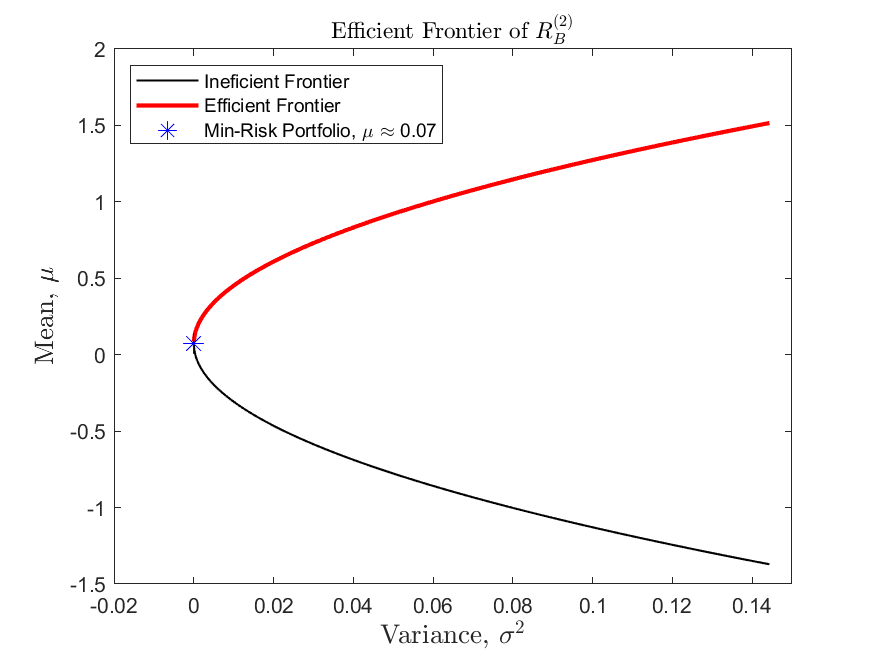
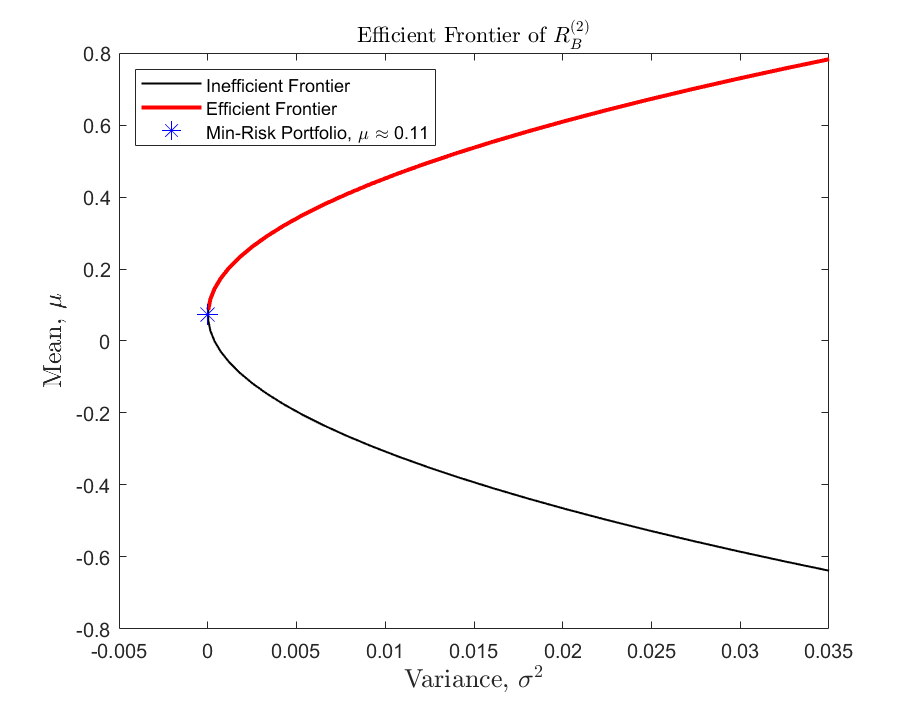
h

diff --git a/Portfolio Optimization/Part 1/tom_Nov_1.m b/Portfolio Optimization/Part 1/tom_Nov_1.m
@@ -287,12 +287,12 @@ plot(overVar,overMu,'-','Color','red','LineWidth',2)
 hold on
 plot(var0,mu0,'*','Color','blue','MarkerSize',10)
 %ylim([mu0,inf])
-xlim([-0.02,0.15])
+xlim([-0.005,0.15])
 title('Efficient Frontier of $R^{(2)}_{B}$','Interpreter','latex')
 xlabel('Variance, $\sigma^2$','Interpreter','latex','FontSize',13)
 ylabel('Mean, $\mu$','Interpreter','latex','FontSize',13)
-legend({'Ineficient Frontier','Efficient Frontier','Min-Risk Portfolio, \mu \approx 0.07'},'Location','northwest')
-saveas(gcf,'r1b_EF','png')
+legend({'Inefficient Frontier','Efficient Frontier','Min-Risk Portfolio, \mu \approx 0.07'},'Location','northwest')
+saveas(gcf,'r1a_EF','png')
 
 %Part b
 
